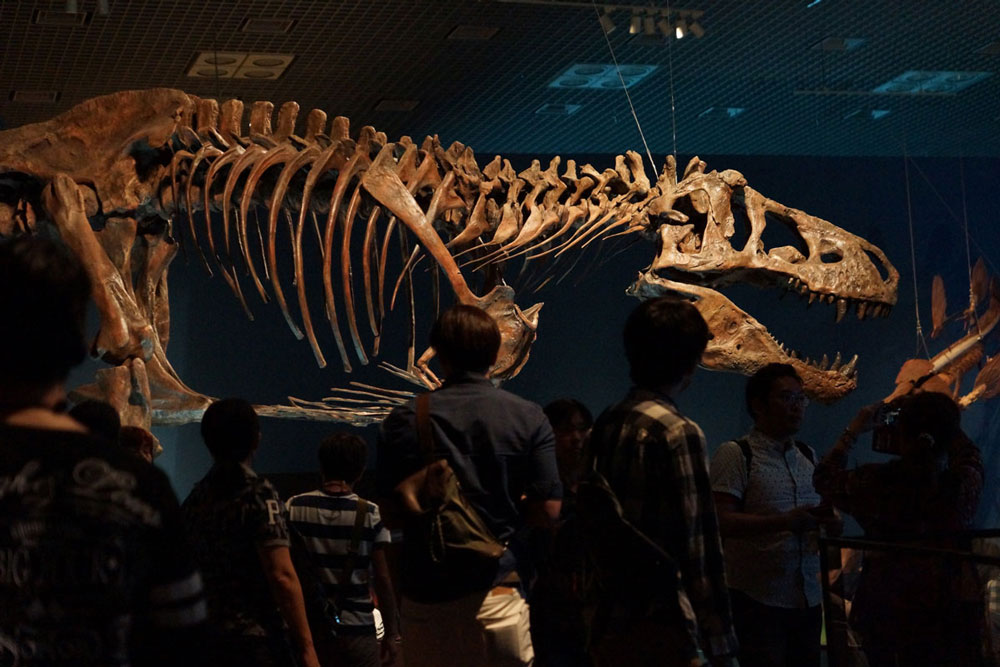
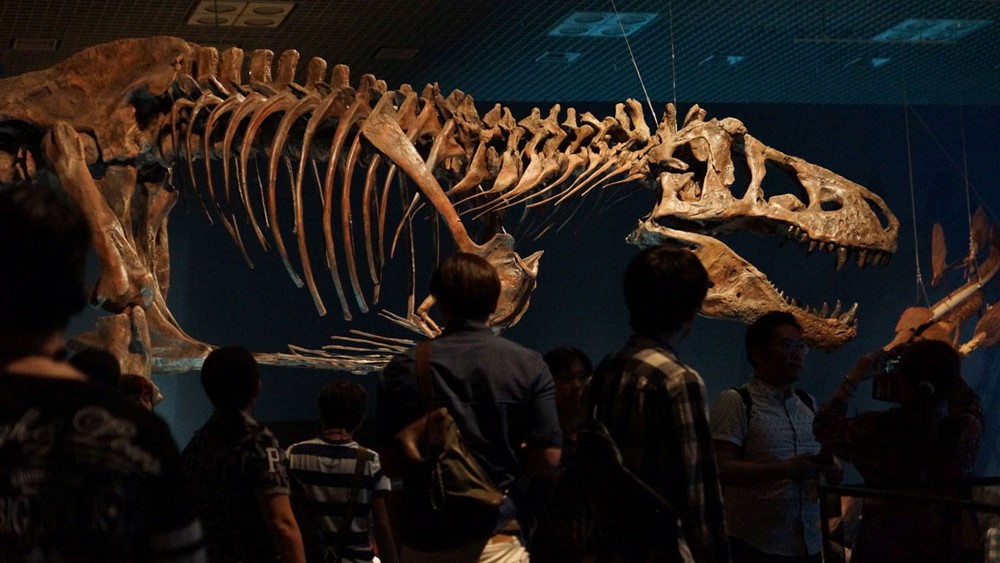
Added active class

diff --git a/visit.html b/visit.html
@@ -27,7 +27,7 @@
                 <li> <a href="coming_soon.html"> Exhibitions</a></li>
                 <li> <a href="getinvolved.html"> Get Involved</a></li>
                 <li> <a href="coming_soon.html"> About Us</a></li>
-                <li> <a href="visit.html"> Plan your visit</a></li>
+                <li> <a class="active" href="visit.html"> Plan your visit</a></li>
             </ul>
             </div>
         </nav>
@@ -51,7 +51,7 @@
                 <h2>Where to find us</h2>
                 <p>The museum is located at Kaigaten 8, 5016 Bergen.</p>
                 <div class="map">
-                <iframe src="https://www.google.com/maps/embed?pb=!1m18!1m12!1m3!1d1971.2701251622825!2d5.327331916115433!3d60.391216182042896!2m3!1f0!2f0!3f0!3m2!1i1024!2i768!4f13.1!3m3!1m2!1s0x463cfea9210194cf%3A0x368e607776de9ab7!2sKaigaten%208%2C%205016%20Bergen!5e0!3m2!1sno!2sno!4v1637847366429!5m2!1sno!2sno" width="600" height="450" frameborder="0" style="border:0" allowfullscreen></iframe>
+                <iframe src="https://www.google.com/maps/embed?pb=!1m18!1m12!1m3!1d1971.2701251622825!2d5.327331916115433!3d60.391216182042896!2m3!1f0!2f0!3f0!3m2!1i1024!2i768!4f13.1!3m3!1m2!1s0x463cfea9210194cf%3A0x368e607776de9ab7!2sKaigaten%208%2C%205016%20Bergen!5e0!3m2!1sno!2sno!4v1637847366429!5m2!1sno!2sno" width="600" height="450"  style="border:0" allowfullscreen></iframe>
             </div>
             </div>
             <div class="admission">

diff --git a/styles.css b/styles.css
@@ -61,6 +61,10 @@ nav li {
   display: block;
 }
 
+.active {
+  text-decoration: underline;
+}
+
 .hamburger,
 #hamburger-checkbox {
   display: none;
@@ -202,7 +206,7 @@ a {
   transition: all 2s ease;
 }
 
-.news:hover {
+.news img:hover {
   transform: scale(0.9);
   transition: all 2s ease;
 }
@@ -702,8 +706,10 @@ table tr:first-child {
   }
 
   .news img {
-    height: 55vw;
-    width: 100vw;
+    max-height: 70%;
+    max-width: 70%;
+    margin: 0 auto;
+    display: block;
   }
   .news h1 {
     margin-top: -140px;
@@ -729,6 +735,12 @@ table tr:first-child {
 
   .exhibition_spaces p {
     font-size: 1.6em;
+    transition: all 0.9s ease-in-out;
+  }
+
+  .exhibition_spaces p:hover {
+    transform: scale(1.1);
+    transition: all 0.5s ease-in-out;
   }
 
   .under_construction {
@@ -786,8 +798,8 @@ table tr:first-child {
   }
 
   .visit Img {
-    max-height: 30vw;
-    max-width: auto;
+    max-height: 70%;
+    max-width: 70%;
     margin: auto;
     display: block;
     grid-column: 1/3;
@@ -804,7 +816,8 @@ table tr:first-child {
     display: grid;
     grid-template-columns: 1fr 1fr;
     grid-template-rows: auto;
-    grid-gap: 30px;
+    grid-column-gap: 30px;
+    grid-row-gap: 20px;
     margin: 0px 100px;
   }
 

diff --git a/getinvolved.html b/getinvolved.html
@@ -25,7 +25,7 @@
                 <li> <a href="coming_soon.html"> News</a></li>
                 <li> <a href="coming_soon.html"> Explore</a></li>
                 <li> <a href="coming_soon.html"> Exhibitions</a></li>
-                <li> <a href="getinvolved.html"> Get Involved</a></li>
+                <li> <a class="active" href="getinvolved.html"> Get Involved</a></li>
                 <li> <a href="coming_soon.html"> About Us</a></li>
                 <li> <a href="visit.html"> Plan your visit</a></li>
             </ul>
